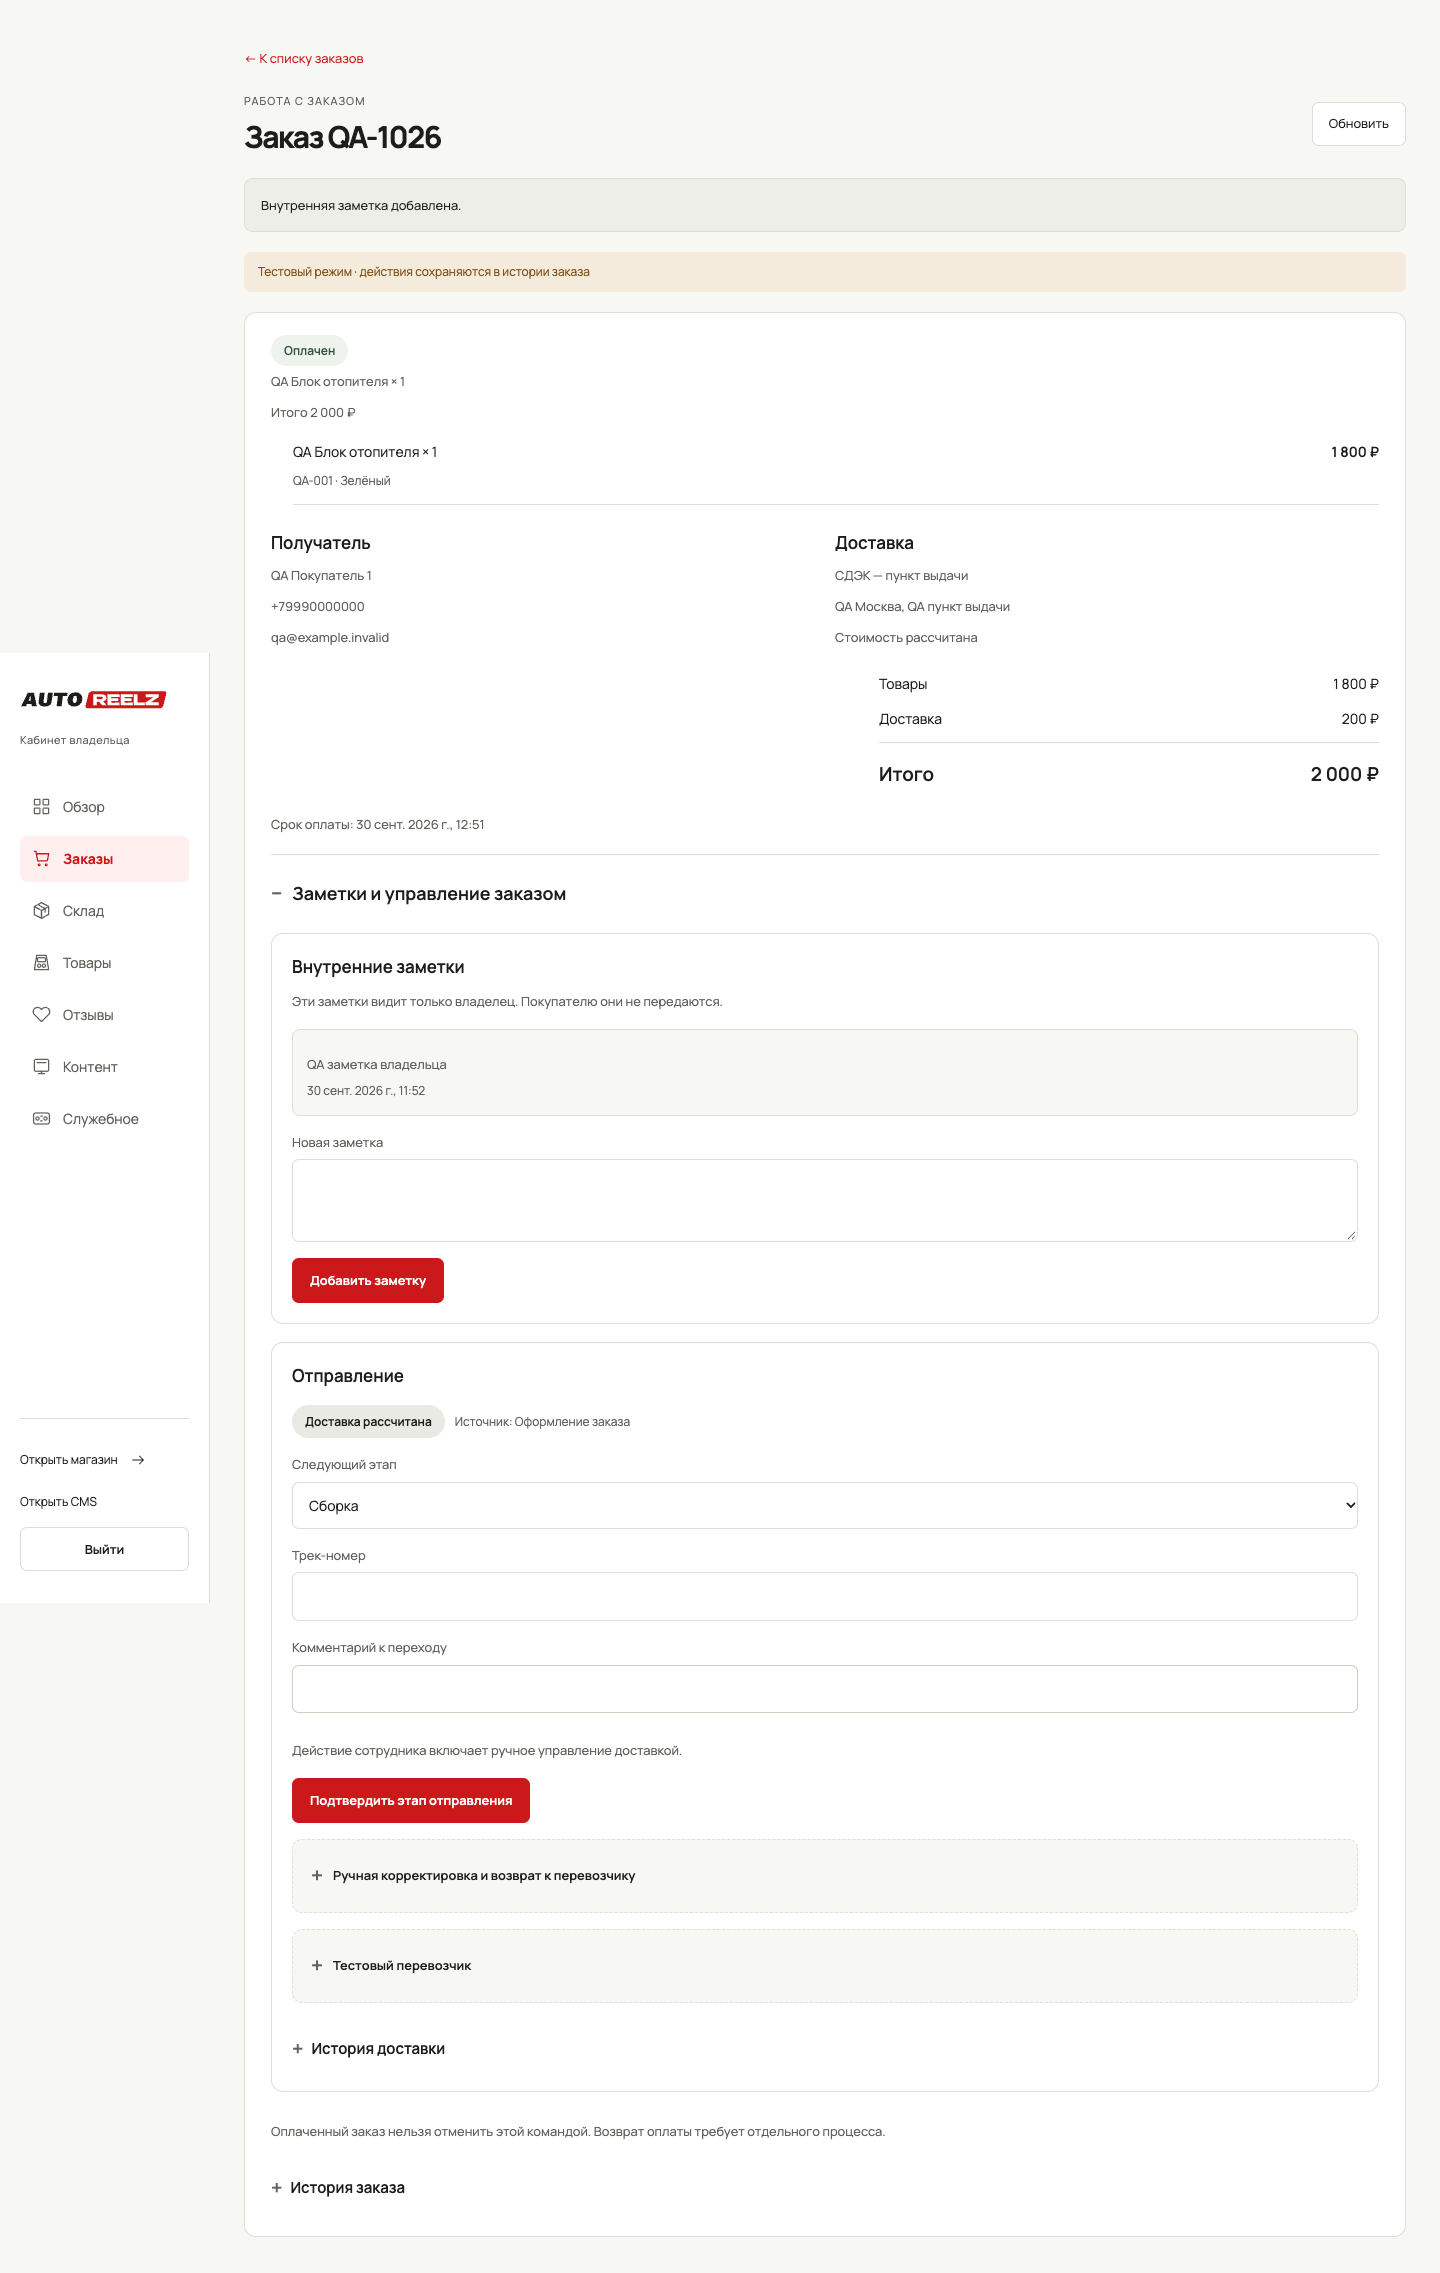
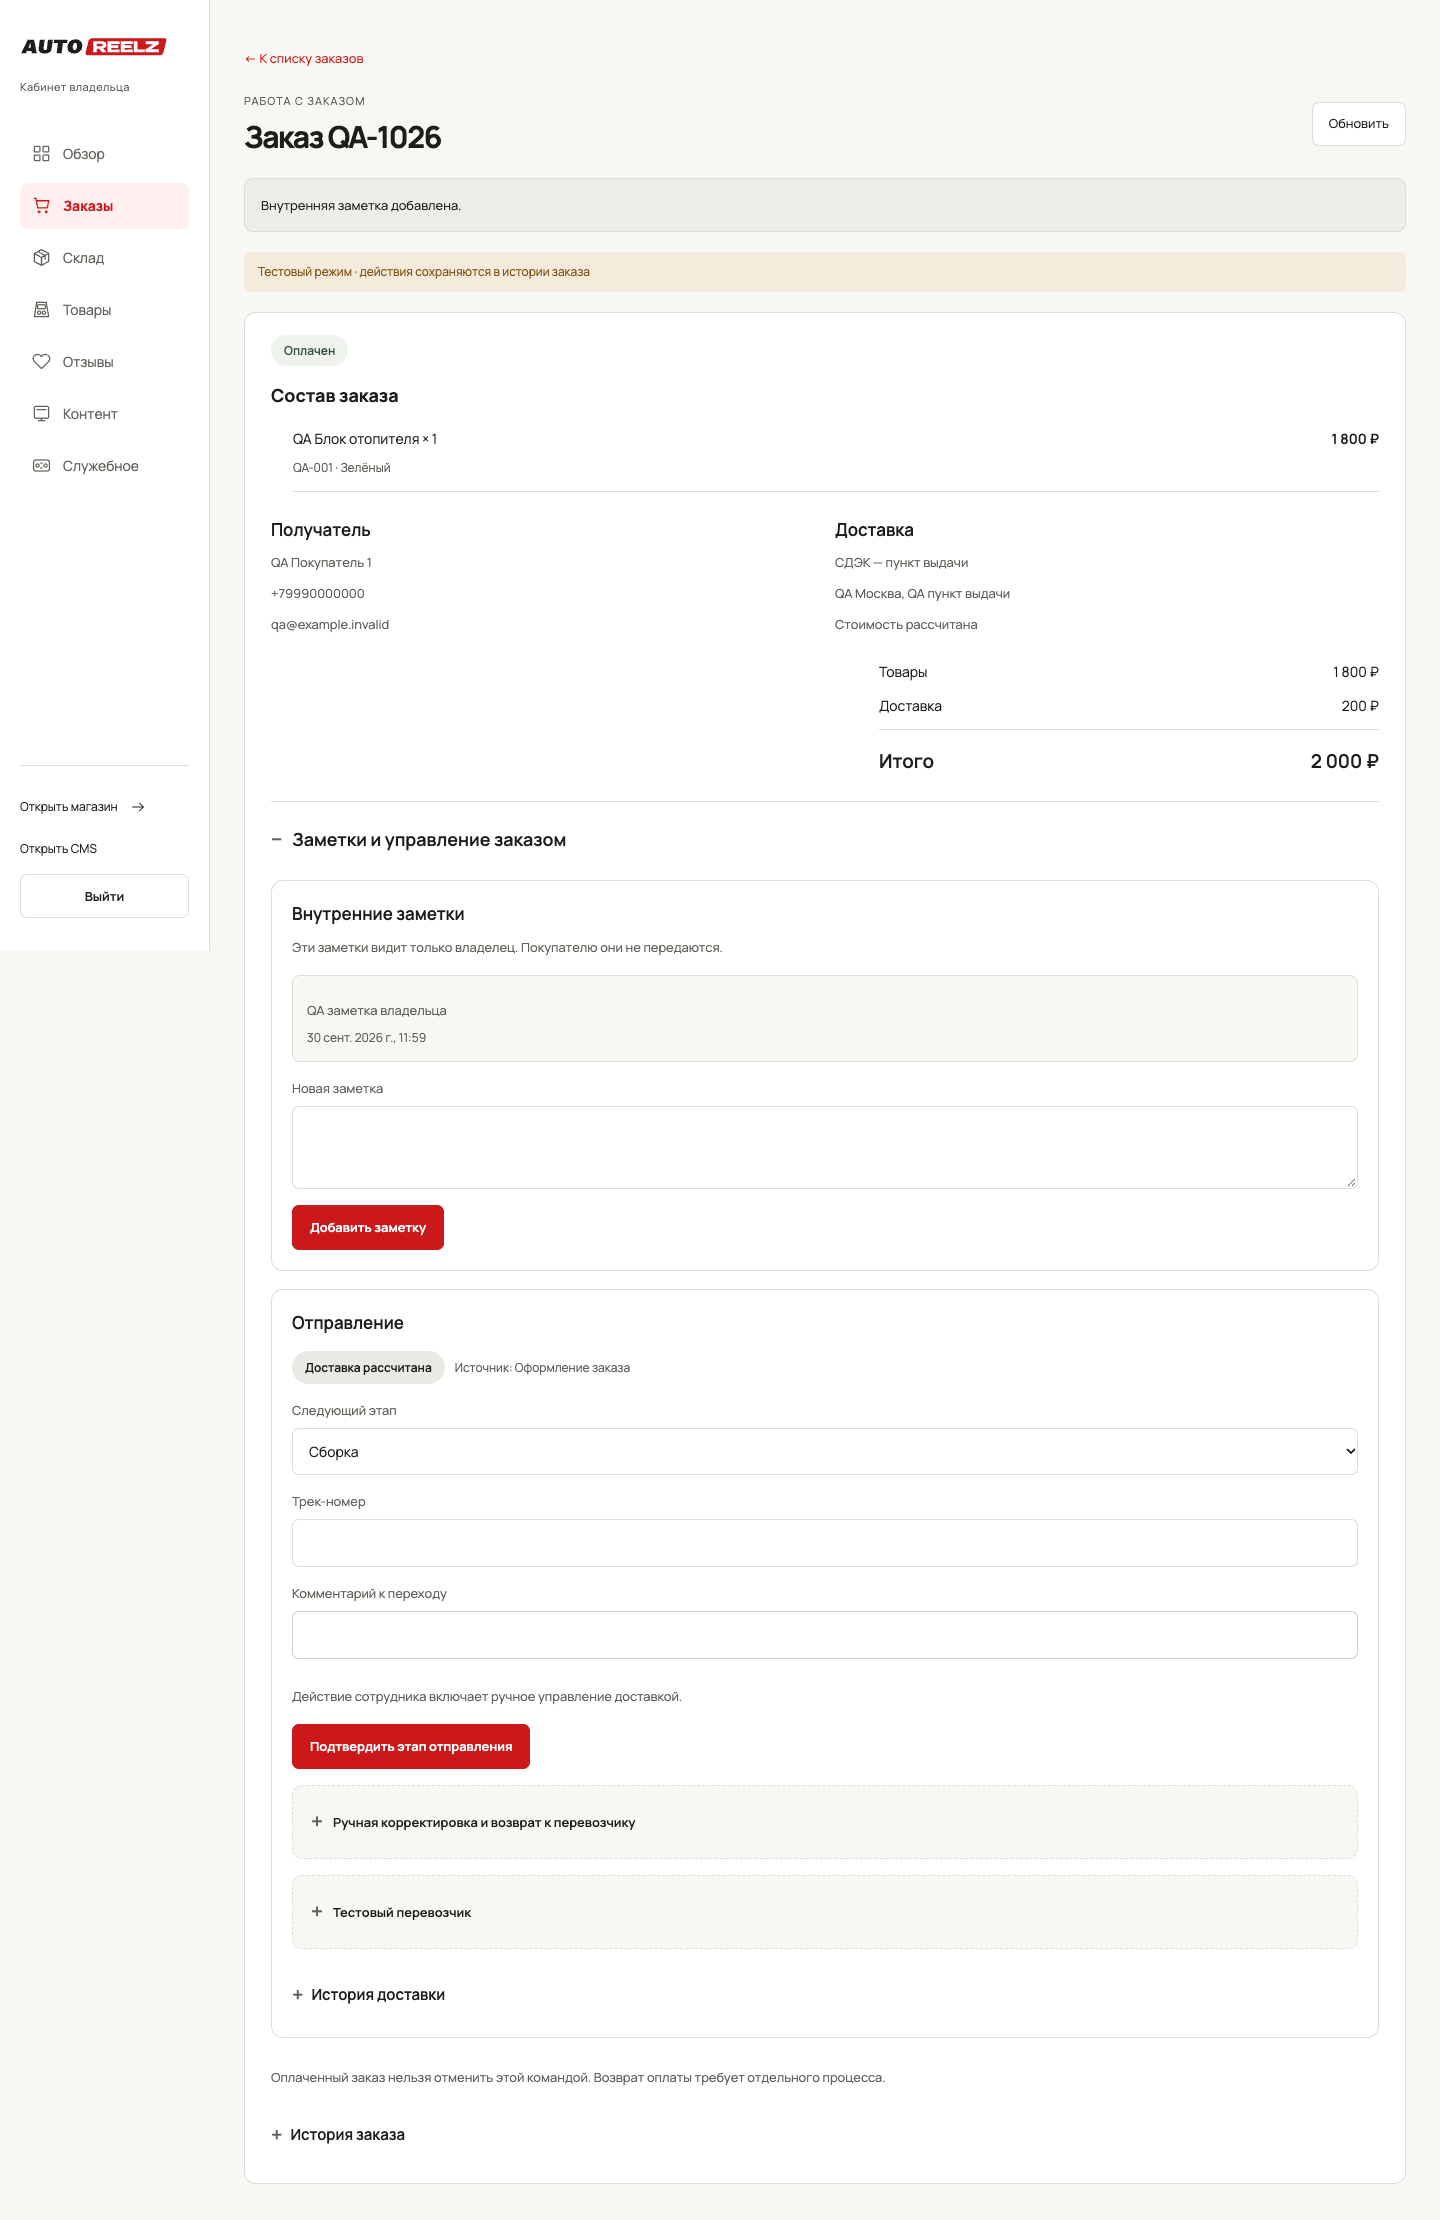
Keep order creation details visible and clear them on session loss

diff --git a/src/scripts/manager-page.ts b/src/scripts/manager-page.ts
@@ -7,11 +7,11 @@ export function managerDirty(value:boolean){window.dispatchEvent(new CustomEvent
 export function managerPage(root:HTMLElement,loader:(signal:AbortSignal)=>Promise<()=>void>){
  const $=<T extends HTMLElement=HTMLElement>(selector:string)=>root.querySelector<T>(selector)!;
  const content=$('[data-workspace-content]'),login=$('[data-workspace-login]'),error=$('[data-workspace-error]'),success=$('[data-workspace-success]'),loading=$('[data-workspace-loading]'),form=$<HTMLFormElement>('[data-workspace-login-form]');let serial=0,controller:AbortController|undefined,exiting=false;
- function showError(e:unknown){error.textContent=e instanceof Error?e.message:'Не удалось выполнить действие.';error.hidden=false;if(e instanceof CommerceError&&(e.status===401||e.status===403)){controller?.abort();content.hidden=true;login.hidden=false;root.querySelectorAll<HTMLDialogElement>('dialog[open]').forEach(d=>d.close());managerDirty(false);}}
+ function showError(e:unknown){error.textContent=e instanceof Error?e.message:'Не удалось выполнить действие.';error.hidden=false;if(e instanceof CommerceError&&(e.status===401||e.status===403)){controller?.abort();content.hidden=true;login.hidden=false;root.dispatchEvent(new Event('autoreelz:manager-locked'));root.querySelectorAll<HTMLDialogElement>('dialog[open]').forEach(d=>d.close());managerDirty(false);}}
  const notify=(text:string)=>{success.textContent=text;success.hidden=false;};
  async function reload(){if(exiting)return;const id=++serial;controller?.abort();controller=new AbortController();const current=controller;error.hidden=true;loading.hidden=false;loading.textContent=content.hidden?'Проверяем доступ…':'Обновляем данные…';try{const render=await loader(AbortSignal.any([current.signal,AbortSignal.timeout(20000)]));if(id!==serial||exiting)return;content.hidden=false;login.hidden=true;render();}catch(e){if(id!==serial||current.signal.aborted)return;showError(e instanceof CommerceError?e:new Error('Не удалось обновить данные. Проверьте соединение и повторите попытку.'));}finally{if(id===serial)loading.hidden=true;}}
  russianValidation(form);form.addEventListener('submit',async event=>{event.preventDefault();const button=form.querySelector<HTMLButtonElement>('button')!;button.disabled=true;error.hidden=true;try{const fields=new FormData(form);await commerceCommand('/api/manager/login',{email:fields.get('email'),password:fields.get('password')});(form.elements.namedItem('password') as HTMLInputElement).value='';await reload();}catch(e){showError(e);}finally{button.disabled=false;}});
  root.querySelectorAll('[data-workspace-refresh]').forEach(b=>b.addEventListener('click',()=>{if(document.documentElement.dataset.managerDirty==='true'&&!confirm('Обновить страницу и сбросить несохранённые изменения?'))return;managerDirty(false);void reload();}));
- window.addEventListener('autoreelz:staff-exiting',()=>{exiting=true;serial++;controller?.abort();content.hidden=true;root.querySelectorAll<HTMLDialogElement>('dialog[open]').forEach(d=>d.close());managerDirty(false);});
+ window.addEventListener('autoreelz:staff-exiting',()=>{exiting=true;serial++;controller?.abort();content.hidden=true;root.dispatchEvent(new Event('autoreelz:manager-locked'));root.querySelectorAll<HTMLDialogElement>('dialog[open]').forEach(d=>d.close());managerDirty(false);});
  return{reload,showError,notify,get:<T>(path:string,signal:AbortSignal)=>commerceGet<T>(path,{signal})};
 }

diff --git a/src/scripts/manager-order.ts b/src/scripts/manager-order.ts
@@ -1,7 +1,7 @@
-import {managerPage,managerDirty} from './manager-page';
+import {managerPage,managerDirty,managerDate} from './manager-page';
 import {renderManagedOrder} from './commerce';
 import {safeOrderReturn} from '../lib/manager-workspace';
 import type {ManagerOrderView} from '../lib/management-types';
 const root=document.querySelector<HTMLElement>('[data-workspace="order"]');
 if(root){const id=root.dataset.orderId!,back=root.querySelector<HTMLAnchorElement>('[data-order-back]')!,returnTo=safeOrderReturn(new URLSearchParams(location.search).get('returnTo')),url=new URL(returnTo,location.origin);url.searchParams.set('restore','1');back.href=url.pathname+url.search;
- const page=managerPage(root,async signal=>{const order=await page.get<ManagerOrderView>('/api/manager/order?id='+encodeURIComponent(id),signal);const card=await renderManagedOrder(order,{refresh:async()=>{managerDirty(false);await page.reload();},error:page.showError,notify:message=>{managerDirty(false);page.notify(message);}});return()=>{root.querySelector('[data-order-title]')!.textContent='Заказ '+order.number;root.querySelector('[data-order-detail]')!.replaceChildren(card);document.title='Заказ '+order.number+' · AUTO REELZ';};});root.addEventListener('input',event=>{if((event.target as Element).closest('[data-edit-form]'))managerDirty(true);});root.addEventListener('change',event=>{if((event.target as Element).closest('[data-edit-form]'))managerDirty(true);});void page.reload();}
+ const page=managerPage(root,async signal=>{const order=await page.get<ManagerOrderView>('/api/manager/order?id='+encodeURIComponent(id),signal);const card=await renderManagedOrder(order,{refresh:async()=>{managerDirty(false);await page.reload();},error:page.showError,notify:message=>{managerDirty(false);page.notify(message);}});return()=>{root.querySelector('[data-order-title]')!.textContent='Заказ '+order.number;root.querySelector('[data-order-heading-meta]')!.textContent=managerDate(order.createdAt)+' · МСК · '+(order.kind==='preorder'?'Предзаказ':'Из наличия');root.querySelector('[data-order-detail]')!.replaceChildren(card);document.title='Заказ '+order.number+' · AUTO REELZ';};});root.addEventListener('input',event=>{if((event.target as Element).closest('[data-edit-form]'))managerDirty(true);});root.addEventListener('change',event=>{if((event.target as Element).closest('[data-edit-form]'))managerDirty(true);});root.addEventListener('autoreelz:manager-locked',()=>{root.querySelector('[data-order-title]')!.textContent='Карточка заказа';root.querySelector('[data-order-heading-meta]')!.textContent='';document.title='Карточка заказа · AUTO REELZ';});void page.reload();}
